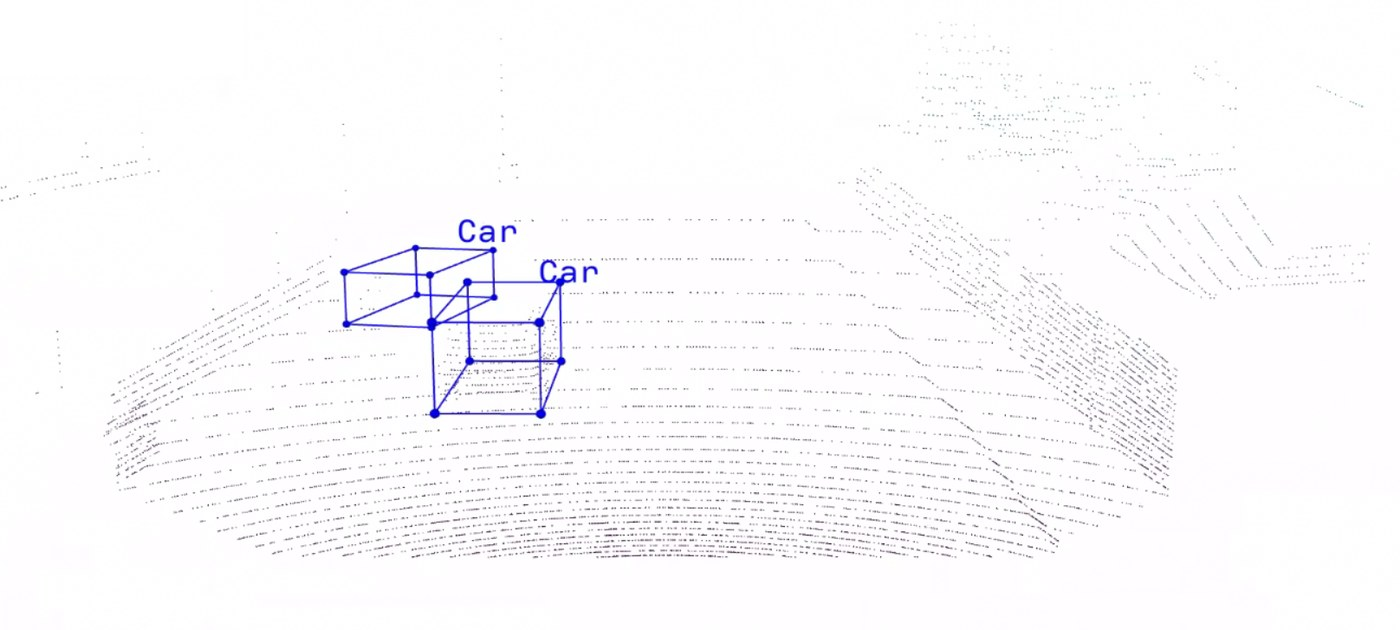
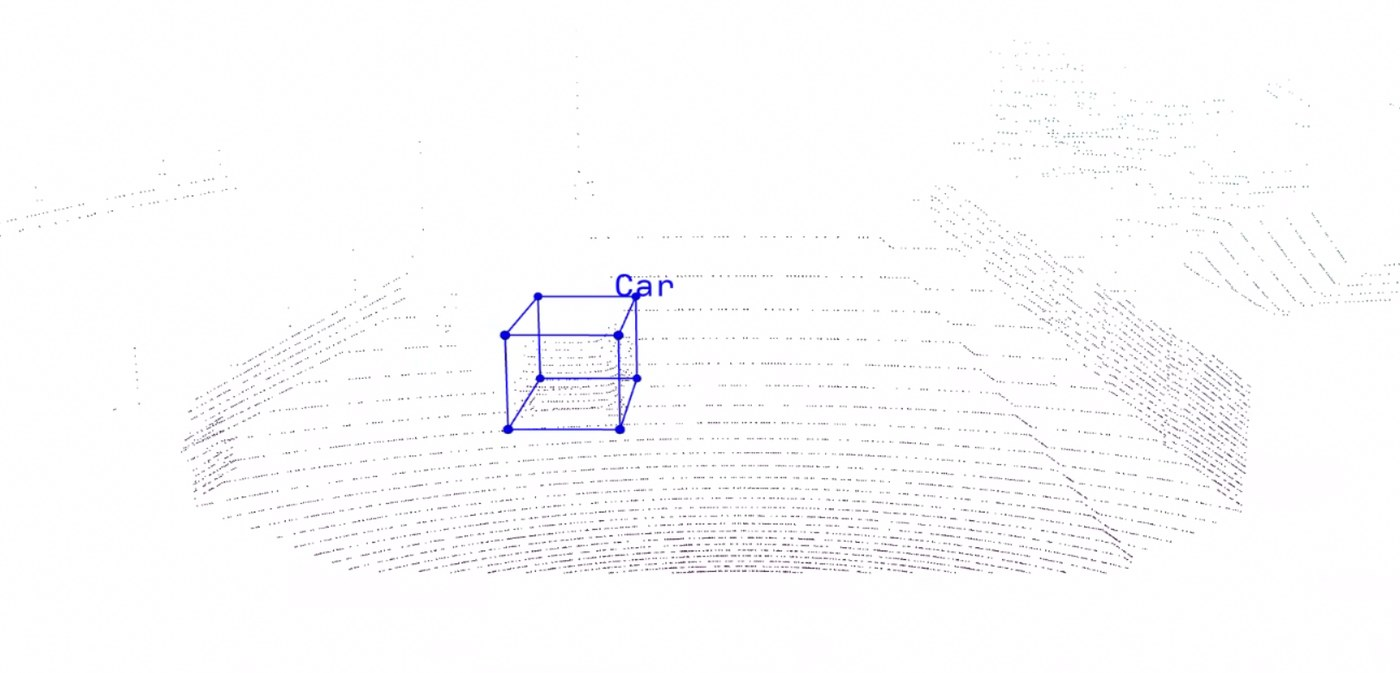
Swap the Severe and Extreme before/after detection frames.
Gallery and the detection comparison both read these pairs.

diff --git a/docs/index.html b/docs/index.html
@@ -192,7 +192,7 @@
 
       <section id="detection" class="sub">
       <h3>Detection</h3>
-      <p class="lead">Drag the divider on the same frame. Before retraining is on the left. Severe uses frame 000002: on LiDAR the original model marks one car, and the retrained model also marks a second car that was missed. Moderate uses frame 000004, a close vehicle at the edge of the view.</p>
+      <p class="lead">Drag the divider on the same frame. Before retraining is on the left. Severe uses frame 000002, and Extreme uses frame 000000. Moderate uses frame 000004, a close vehicle at the edge of the view.</p>
       <div class="tabs" id="det-levels" role="tablist" aria-label="Detection occlusion level"></div>
       <div class="segment" id="det-sensor" role="group" aria-label="Sensor">
         <button type="button" data-value="camera" aria-pressed="true">Camera</button>

diff --git a/docs/main.js b/docs/main.js
@@ -153,13 +153,7 @@ function updateDetection() {
   const sensorName = sensor === "camera" ? "camera image" : "LiDAR projection";
   detBefore.alt = `${label} detections before retraining on the ${sensorName}`;
   detAfter.alt = `${label} detections after retraining on the ${sensorName}`;
-  let note = "";
-  if (level === "Severe_Occlusion") {
-    note = sensor === "lidar"
-      ? " Retraining recovers a second car missed before."
-      : " Open LiDAR to see the second car recovered after retraining.";
-  }
-  detCaption.textContent = `${label}. Blue boxes are model predictions on frame ${FRAME[level]}.${note}`;
+  detCaption.textContent = `${label}. Blue boxes are model predictions on frame ${FRAME[level]}.`;
   swapPair(
     detBefore,
     detAfter,
